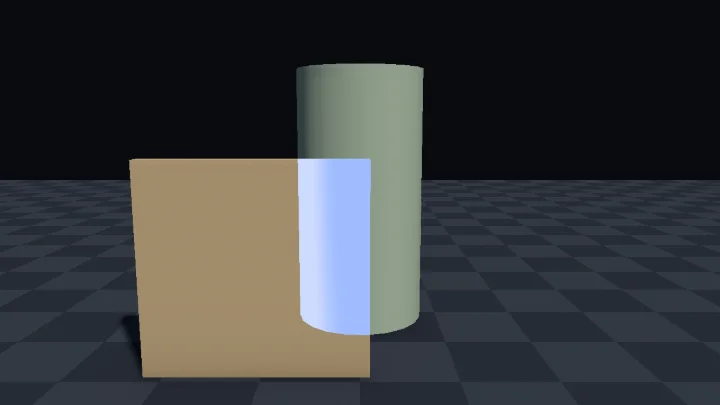
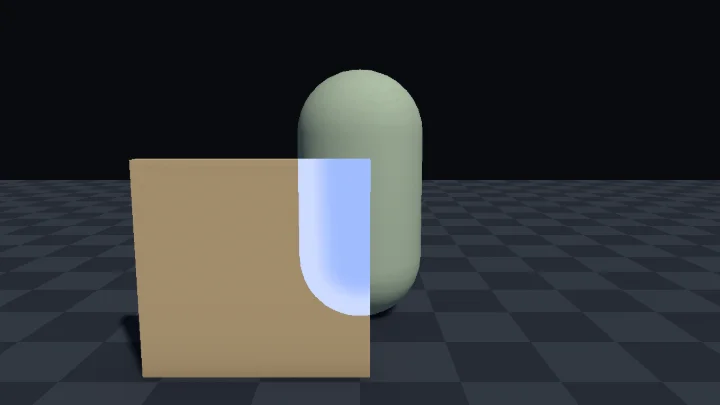
dispatch(xray-occluded-silhouette-fix): 표본 수정: xray-occluded-silhouette 리뷰 반영
Dispatch-Job: xray-occluded-silhouette-fix
Dispatch-Profile: org
Dispatch-Model: claude-opus-5-5

Changed region(s): [[0.3972, 0.1481, 0.6111, 0.3259], [0.3972, 0.6519, 0.5806, 0.8296]]

diff --git a/web/src/specimens/xray-occluded-silhouette/meta.ts b/web/src/specimens/xray-occluded-silhouette/meta.ts
@@ -16,9 +16,8 @@ export const meta: SpecimenMeta = {
   tags: ['ZTest Greater', '멀티 패스', '프레넬', '알파 혼합', '팀 표시'],
   difficulty: 2,
   shaderFile: 'XrayOccludedSilhouette.shader',
-  // 캐릭터 대신 원통을 둔다. 캡슐이면 웹 무대의 벽이 바닥 그림자를 거의 다 가려 tools/check.mjs 의 그림자 검사(효과 끄기의 온전한 그림자)를
-  // 통과하지 못한다 (검사가 벽을 그대로 둔 채 바닥 그림자 넓이를 잰다). 원통은 바닥 원이 벽 오른쪽으로 비어져 나와 잴 수 있다.
-  stage: { kind: 'mesh', mesh: 'cylinder', blend: 'cutout', occluded: true },
+  // 캐릭터 대신 캡슐을 둔다. 아래 반구의 곡선에도 테두리가 생겨 원통보다 몸 모양이 잘 읽힌다.
+  stage: { kind: 'mesh', mesh: 'capsule', blend: 'cutout', occluded: true },
   params: [
     { key: '_SilhouetteColor', label: '실루엣 색', type: 'color', default: '#2f8cff', hint: '벽 뒤에 가려진 부분의 색. 조명을 받지 않는 단색이라 팀이나 대상 종류를 색 하나로 알린다' },
     { key: '_Opacity', label: '실루엣 불투명도', type: 'range', min: 0, max: 1, step: 0.01, default: 0.5, hint: '실루엣 안쪽이 벽을 덮는 정도. 0 이면 테두리만 남고, 1 이면 벽에 구멍이 뚫린 것처럼 꽉 찬다' },
@@ -46,35 +45,36 @@ export const meta: SpecimenMeta = {
     fire: [{ event: 'reveal', every: 3.2 }],
   },
   steps: [
-    { n: 1, label: '실루엣 단색', body: '벽 오른쪽 끝에 가려진 원통의 왼쪽 아래 자리에 실루엣 색 덩어리가 꽉 차게 생겼다. 벽보다 뒤에 있는 픽셀만 `ZTest Greater` 를 통과해 실루엣 패스로 들어오고, 이 단계는 그 자리를 실루엣 색 하나로 불투명하게 칠했다. 벽 밖으로 나온 몸은 본체 패스가 평범한 조명으로 그리며 모든 단계에서 같다. 단색만으로는 벽에 원통 모양 구멍이 뚫린 것처럼 납작하다. 효과 끄기가 여기서 멈춘 흔한 실수다.' },
-    { n: 2, label: '프레넬 테두리', body: '`dot(normalWS, viewWS)` 로 법선이 시선에서 얼마나 비껴 있는지(각의 sin)를 구해 `smoothstep` 으로 자른 값이다. 가려진 부분의 왼쪽 윤곽이 흰색이고, 원통 가운데로 갈수록 부드럽게 어두워져 오른쪽은 검다. 오른쪽의 곧은 경계는 몸의 윤곽이 아니라 벽 끝이라 띠가 없다. `_RimWidth` 를 올리면 흰 부분이 가운데 쪽으로 넓어지고, `_RimStrength` 를 올리면 같은 폭 안이 더 하얗게 찬다.' },
-    { n: 3, label: '섞을 비율', body: '실루엣의 알파다. 오른쪽(가운데)은 `_Opacity` 만큼의 밝은 회색이고 왼쪽 윤곽으로 갈수록 흰색이 된다. 최종 화면은 이 비율로 실루엣 색을 벽 위에 섞으므로 가운데로는 벽 색이 비치고 윤곽은 진하게 남아 둥근 몸통이 읽힌다. 발견 버튼을 누르면 이 값이 잠깐 전체 흰색이 된다.' },
+    { n: 1, label: '실루엣 단색', body: '벽 오른쪽 끝에 가려진 캡슐의 왼쪽 아래 자리에 실루엣 색 덩어리가 꽉 차게 생겼다. 벽보다 뒤에 있는 픽셀만 `ZTest Greater` 를 통과해 실루엣 패스로 들어오고, 이 단계는 그 자리를 실루엣 색 하나로 불투명하게 칠했다. 벽 밖으로 나온 몸은 본체 패스가 평범한 조명으로 그리며 모든 단계에서 같다. 단색만으로는 벽에 캡슐 모양 구멍이 뚫린 것처럼 납작해, 벽 앞인지 뒤인지도 둥근 몸인지 판인지도 읽히지 않는다.' },
+    { n: 2, label: '프레넬 테두리', body: '`dot(normalWS, viewWS)` 로 법선이 시선에서 얼마나 비껴 있는지(각의 sin)를 구해 `smoothstep` 으로 자른 값이다. 가려진 부분의 왼쪽 윤곽이 흰색이고, 캡슐 가운데로 갈수록 부드럽게 어두워져 오른쪽은 검다. 아래쪽 둥근 끝의 곡선을 따라서도 같은 폭의 흰 띠가 돌아, 몸의 아래 끝이 둥글다는 것이 읽힌다. 위쪽과 오른쪽의 곧은 경계는 몸의 윤곽이 아니라 벽 끝이라 띠가 없다. `_RimWidth` 를 올리면 흰 부분이 가운데 쪽으로 넓어지고, `_RimStrength` 를 올리면 같은 폭 안이 더 하얗게 찬다.' },
+    { n: 3, label: '섞을 비율', body: '실루엣의 알파다. 오른쪽(가운데)은 `_Opacity` 만큼의 밝은 회색이고 왼쪽 윤곽과 아래 곡선으로 갈수록 흰색이 된다. 최종 화면은 이 비율로 실루엣 색을 벽 위에 섞으므로 가운데로는 벽 색이 비치고 윤곽은 진하게 남아 둥근 몸이 읽힌다. 발견 버튼을 누르면 이 값이 잠깐 전체 흰색이 된다.' },
   ],
-  offNote: '프레넬 없이 불투명 단색으로 덮은 흔한 실수. 가려진 부분이 팀 색으로 꽉 차서 벽에 원통 모양 구멍이 뚫린 것처럼 보인다. 벽이 비치지 않아 캐릭터가 벽 앞인지 뒤인지 헷갈리고, 테두리가 없어 둥근 몸통인지 납작한 판인지도 읽히지 않는다. 불투명도와 테두리 슬라이더도 듣지 않는다.',
+  offNote: '프레넬을 `1 - dot(normalWS, viewWS)` 로 그대로 쓴 흔한 실수. 둥근 몸에서는 이 값이 윤곽 바로 앞까지 0 에 가까워, 같은 테두리 폭에서도 왼쪽 윤곽과 아래 곡선에 실처럼 가는 선만 남는다. 안쪽은 불투명도만큼 옅게 덮일 뿐이라 벽 색과 섞여 흐릿하고, 작은 화면이나 먼 거리에서는 선이 몇 픽셀로 줄어 몸의 둥근 형태도 위치도 놓치기 쉽다. 테두리 폭을 1 까지 올려도 정상 화면만큼 넓어지지 않는다.',
   mistakes: [
-    { title: '벽 뒤로 가도 실루엣이 생기지 않는다', body: '세 가지를 차례로 본다. (1) 실루엣 패스가 `ZTest Greater` 인지. 기본값(`LEqual`)이면 보이는 부분 위에 덧칠될 뿐이다. (2) 본체와 실루엣 패스가 같은 `LightMode` 태그를 쓰지 않는지. URP 는 같은 태그의 첫 패스만 그리므로 실루엣 패스는 `SRPDefaultUnlit` 으로 둔다. (3) 캐릭터가 벽보다 늦게 그려지는지. 이 셰이더는 `"Queue" = "AlphaTest"` 라 Geometry 큐의 벽 다음에 그려진다. 머티리얼 Inspector 의 Render Queue 를 2000 이하로 낮추면 벽 깊이가 아직 없어 실루엣이 생기지 않는다.' },
-    { title: '유리창이나 반투명 벽 뒤에서는 실루엣이 안 생긴다', body: '실루엣은 깊이 버퍼만 비교한다. 투명 머티리얼은 `ZWrite Off` 라 깊이를 쓰지 않으므로 그 뒤의 캐릭터는 가려진 것으로 판정되지 않는다. 또 투명 큐(3000)는 캐릭터보다 늦게 그려진다. 유리 너머에도 실루엣이 필요하면 유리를 가리는 물체로 치지 않는 것이 맞는지부터 정하고, 필요하면 유리와 같은 모양의 깊이만 쓰는 불투명 물체(ColorMask 0)를 따로 둔다.' },
-    { title: '팔이나 다리가 자기 몸 위에 실루엣으로 겹쳐 보인다', body: '실루엣 패스는 본체 깊이가 쓰이기 전에 그려져야 한다. Unity 는 같은 물체의 `SRPDefaultUnlit` 패스를 `UniversalForwardOnly` 본체보다 먼저 그려서 평소에는 괜찮다. SSAO 같은 기능 때문에 깊이 프리패스가 먼저 돌거나 Depth Priming 이 켜지면 본체 깊이가 미리 쓰여, 몸 뒤쪽에 있는 팔 같은 부분이 "가려졌다" 고 판정된다. Window > Analysis > Frame Debugger 에서 실루엣 그리기보다 DepthPrepass 가 먼저 있는지 본다. 그렇다면 Universal Renderer Data 의 Depth Priming Mode 를 Disabled 로 두거나, Render Objects 방식으로 바꿔 두 번째 기능으로 자기 겹침을 막는다.' },
-    { title: '실루엣이 납작한 단색 덩어리라 무엇인지 모르겠다', body: '실루엣은 조명을 받지 않으므로 단색으로만 칠하면 입체감이 없다. 이 표본은 `dot(normalWS, viewWS)` 로 윤곽일수록 알파를 1 에 가깝게 올린다. `1 - dot` 을 그대로 쓰면 둥근 몸에서 윤곽 바로 앞까지 거의 0 이라 테두리가 실처럼 가늘므로, 각의 sin(`sqrt(1 - d * d)`)을 쓰면 가운데에서 윤곽까지 고르게 커진다. 테두리 세기를 0 으로 내리면 이 실수를 볼 수 있다. 법선과 시선은 모두 월드 공간에서 정규화한 값을 쓴다.' },
-    { title: '작은 소품이나 풀 뒤에서도 실루엣이 깜빡인다', body: '`ZTest Greater` 는 앞에 있는 것이 벽인지 풀잎인지 가리지 않는다. 캐릭터가 덤불 사이를 지나면 잎 모양대로 실루엣이 켜졌다 꺼진다. 큰 벽만 가림막으로 치려면 머티리얼 대신 Render Objects 방식으로 바꾸고, 벽을 따로 레이어로 나눠 그 레이어의 깊이만 비교하게 구성한다.' },
+    { title: '벽 뒤로 가도 실루엣이 생기지 않는다', body: '네 가지를 차례로 본다. (1) Universal Renderer Data 의 Rendering > Depth Priming Mode 가 켜져 있는지. 켜져 있으면 불투명 그리기 전체가 `ZTest Equal` 로 덮어써져 실루엣 패스의 `ZTest Greater` 가 무시되고 실루엣이 통째로 사라진다. Auto 는 데스크톱에서 MSAA 가 꺼져 있으면 켜질 수 있으니 Disabled 로 둔다. SSAO 는 끌 필요가 없다. 프라이밍이 꺼진 깊이 프리패스는 깊이 텍스처에만 그려 상관없다. (2) 실루엣 패스가 `ZTest Greater` 인지. 기본값(`LEqual`)이면 보이는 부분 위에 덧칠될 뿐이다. (3) 본체와 실루엣 패스가 같은 `LightMode` 태그를 쓰지 않는지. URP 는 같은 태그의 첫 패스만 그리므로 실루엣 패스는 `SRPDefaultUnlit` 으로 둔다. (4) 캐릭터가 벽보다 늦게 그려지는지. 이 셰이더는 `"Queue" = "AlphaTest"`(2450)라 Geometry 큐(2000)의 벽 다음에 그려진다. 머티리얼 Inspector 의 Render Queue 를 벽보다 작은 값으로 낮추거나 벽의 큐를 캐릭터보다 크게 올리면, 실루엣을 그릴 때 벽 깊이가 아직 없어 실루엣이 생기지 않는다.' },
+    { title: '유리창이나 반투명 벽 뒤에서는 실루엣이 안 생긴다', body: '실루엣은 깊이 버퍼만 비교한다. 투명 머티리얼은 `ZWrite Off` 라 깊이를 쓰지 않으므로 그 뒤의 캐릭터는 가려진 것으로 판정되지 않는다. 또 투명 큐(3000)는 캐릭터보다 늦게 그려진다. 보통은 유리를 가림막으로 치지 않는 것이 맞다. 유리 자리에 깊이만 쓰는 불투명 물체(ColorMask 0)를 두는 방법은 권하지 않는다. 그 물체가 깊이를 먼저 써 버려 뒤에 그려질 스카이박스와 캐릭터 본체, 다른 불투명 물체가 유리 자리에서 지워져 유리 너머가 검거나 비어 보인다.' },
+    { title: '무기나 다른 부위 위에 몸의 실루엣 색이 칠해진다', body: 'Forward 와 Forward+ 에서 같은 물체의 `SRPDefaultUnlit` 실루엣 패스는 `UniversalForwardOnly` 본체보다 먼저 그려져, 렌더러 하나짜리 캐릭터는 자기 몸에 겹치지 않는다. 겹친다면 원인은 둘이다. (1) 캐릭터가 렌더러나 서브메시 여러 개로 나뉘어 있다. 부위마다 실루엣과 본체가 따로 그려지므로 먼저 그린 부위 위에 뒤 부위의 실루엣이 덮인다. 다른 큐의 무기나 모자(Lit, 2000)도 캐릭터보다 먼저 그려져, 몸 앞에 든 총 위에 몸의 실루엣 색이 칠해진다. 모든 머티리얼을 이 셰이더로 바꿔도 풀리지 않는다. (2) Deferred 렌더 경로에서는 본체가 실루엣보다 먼저 그려질 수 있다 (URP 소스로 추론, 확인하지 않았다). Window > Analysis > Frame Debugger 에서 부위별 그리는 순서를 본다. 이런 캐릭터는 Universal Renderer 의 Render Objects 방식으로 바꾼다. 캐릭터 레이어(무기 포함)를 Opaque Layer Mask 에서 빼고, 첫 Render Objects 로 레이어 전체의 실루엣을 먼저(Depth Test Greater, Write Depth 끔), 둘째로 본체를 나중에 그린다. 본체 머티리얼은 평범한 Lit 으로 둔다.' },
+    { title: '실루엣이 납작하거나 테두리가 실처럼 가늘다', body: '실루엣은 조명을 받지 않으므로 단색으로만 칠하면 입체감이 없다. 이 표본은 `dot(normalWS, viewWS)` 로 윤곽일수록 알파를 1 에 가깝게 올린다. `1 - dot` 을 그대로 쓰면 둥근 몸에서 윤곽 바로 앞까지 거의 0 이라 테두리가 실처럼 가늘다. 각의 sin(`sqrt(1 - d * d)`)을 쓰면 가운데에서 윤곽까지 고르게 커진다. 효과 끄기가 `1 - dot` 의 모습이고, 테두리 세기를 0 으로 내리면 테두리 없이 납작한 모습을 볼 수 있다. 법선과 시선은 모두 월드 공간에서 정규화한 값을 쓴다.' },
+    { title: '작은 소품이나 풀 뒤에서도 실루엣이 깜빡인다', body: '`ZTest Greater` 는 앞에 있는 것이 벽인지 풀잎인지 가리지 않는다. 캐릭터가 덤불 사이를 지나면 잎 모양대로 실루엣이 켜졌다 꺼진다. 깊이 버퍼는 하나라 레이어를 골라 비교할 수는 없고, 그리는 순서로 고른다. 벽 → 실루엣 → 덤불 순서로 그리면 실루엣을 그리는 순간 깊이 버퍼에는 아직 벽만 있어 벽 뒤에서만 실루엣이 생기고, 덤불은 그 뒤에 그려져 평범하게 앞을 덮는다. 머티리얼 방식이면 덤불 머티리얼의 Render Queue 를 캐릭터(2450)보다 크고 불투명 범위(2500) 안인 값(예: 2460)으로 올린다. Render Objects 방식이면 덤불을 따로 레이어로 나눠 Opaque Layer Mask 에서 빼고 실루엣 다음 Render Objects 로 그린다.' },
   ],
   unity: {
     setup: [
       '`XrayOccludedSilhouette.shader`, `core.hlsl`, `XraySilhouetteController.cs` 를 `Assets/Shaders/xray-occluded-silhouette/` 에 둔다.',
       'Project 창에서 셰이더를 우클릭해 Create > Material 로 머티리얼을 만든다.',
-      '머티리얼을 캐릭터의 MeshRenderer(또는 SkinnedMeshRenderer)에 넣는다. 가림막이 될 벽은 URP Lit 처럼 깊이를 쓰는 불투명 머티리얼이어야 한다.',
+      '머티리얼을 캐릭터의 MeshRenderer(또는 SkinnedMeshRenderer)에 넣는다. 가림막이 될 벽은 URP Lit 처럼 깊이를 쓰는 불투명 머티리얼이어야 한다. 캐릭터가 렌더러나 서브메시 여러 개로 나뉘었거나 무기, 모자를 따로 들고 있으면 이 머티리얼 대신 Render Objects 방식을 쓴다 (주의할 점 참고).',
       '팀 색과 발견 연출이 필요하면 같은 오브젝트에 `XraySilhouetteController` 를 붙이고 Team 을 고른다. 적을 발견한 순간 `PlayReveal()` 을, 팀이 바뀌면 `SetAlly()` 나 `SetEnemy()` 를 호출한다. 인자가 없어 UnityEvent 에 바로 연결할 수 있다.',
-      '실루엣이 사라지거나 자기 몸에 겹치면 사용 중인 Universal Renderer Data 의 Rendering > Depth Priming Mode 를 Disabled 로 둔다.',
+      '사용 중인 Universal Renderer Data 의 Rendering > Depth Priming Mode 를 Disabled 로 둔다. 켜져 있으면(Auto 는 데스크톱에서 켜질 수 있다) 실루엣이 통째로 사라진다. SSAO 같은 다른 기능은 끄지 않아도 된다.',
     ],
     verify: '캐릭터를 벽 뒤로 옮기면 가려진 부분만 팀 색 실루엣으로 보이고 윤곽이 진하다. 실루엣 불투명도를 0 으로 내리면 테두리만 남고, 벽 밖으로 나온 몸은 평범한 조명 그대로다.',
     pitfalls: [
       '이 셰이더는 3D 프로젝트(Universal Renderer)용이다. 2D Renderer 는 `Universal2D` 와 `SRPDefaultUnlit` 태그만 그리므로 본체 패스(`UniversalForwardOnly`)는 빠지고 실루엣 패스만 남는다. 몸은 그려지지 않고, 깊이에 따라 실루엣 조각만 보이거나 아무것도 안 보인다.',
-      'Depth Priming 이나 깊이 프리패스(SSAO 등이 켜면 돈다)가 실루엣보다 먼저 본체 깊이를 쓰면 실루엣이 사라지거나 자기 몸 위에 겹친다. 실루엣 패스가 본체보다 먼저 그려진다는 전제로 만든 셰이더다 (껍데기 외곽선 패스와 같은 이유). 실루엣은 깊이 버퍼만 비교하므로 URP Asset 의 Depth Texture 설정은 필요 없다.',
+      'Universal Renderer Data 의 Depth Priming 이 켜지면 불투명 그리기 전체가 `ZTest Equal, ZWrite Off` 로 덮어써져 실루엣 패스의 `ZTest Greater` 가 무시되고 실루엣이 통째로 사라진다 (몸에 겹치지는 않는다). Auto 모드는 데스크톱에서 MSAA 가 꺼져 있으면 프리패스가 필요 없어도 켜질 수 있으므로 Disabled 로 둔다. 프라이밍이 꺼진 깊이 프리패스(SSAO 등이 켠다)는 깊이 텍스처에만 그려 상관없으니 SSAO 를 끌 필요는 없다. 실루엣은 깊이 버퍼만 비교하므로 URP Asset 의 Depth Texture 설정도 필요 없다 (URP 17.3 소스 기준).',
       '투명한 벽(`ZWrite Off`)은 깊이를 쓰지 않아 그 뒤에서는 실루엣이 생기지 않는다. 유리, 연기, 반투명 파티클은 가림막으로 치지 않는다.',
       '실루엣 패스는 `SRPDefaultUnlit` 태그를 쓴다. URP 는 같은 태그의 패스가 둘이면 첫 패스만 그리므로, 이 셰이더에 껍데기 외곽선처럼 `SRPDefaultUnlit` 패스를 하나 더 넣으면 둘 중 하나가 사라진다. 외곽선까지 필요하면 외곽선을 다른 머티리얼이나 Render Objects 로 분리한다.',
-      '실루엣은 그림자를 드리우지 않고 깊이, 노멀 텍스처에도 들어가지 않는다. 캐릭터 머티리얼이 여러 개(서브메시)면 모든 머티리얼을 이 셰이더로 바꿔야 몸 전체가 실루엣이 된다.',
+      '렌더러 하나, 머티리얼 하나짜리 캐릭터를 전제로 한 셰이더다. 렌더러나 서브메시가 여러 개면 부위마다 실루엣과 본체가 따로 그려져 먼저 그린 부위 위에 뒤 부위의 실루엣이 덮이고, 다른 큐의 무기나 모자(Lit, 2000)도 같아 몸 앞에 든 총 위에 실루엣 색이 칠해진다. 모든 머티리얼을 이 셰이더로 바꿔도 풀리지 않으므로 Render Objects 방식(캐릭터 레이어 전체의 실루엣을 먼저, 본체를 나중에)을 쓴다. Deferred 렌더 경로의 Forward 전용 목록은 `UniversalForwardOnly, SRPDefaultUnlit` 순이라 본체가 먼저 그려질 수 있고, 그러면 렌더러 하나짜리라도 팔 위에 뒤쪽 몸통의 실루엣이 칠해진다 (소스로 추론, Unity 에서 확인하지 않았다). 실루엣은 그림자를 드리우지 않고 깊이, 노멀 텍스처에도 들어가지 않는다.',
+      '안개를 처리하지 않아 Fog 를 켠 넓은 맵에서 먼 캐릭터 본체가 안개에 묻히지 않는다. 본체는 Forward 패스에 `#pragma multi_compile_fog` 를 넣고 정점에서 `ComputeFogFactor(positionCS.z)` 를 넘긴 뒤 마지막 색에 `MixFog(color, fogFactor)` 를 건다. 실루엣 패스는 일부러 안개를 무시해도 된다. 벽 너머 위치를 알리는 표시라 멀어도 흐려지지 않는 편이 낫다. 또 본체 조명은 광원의 `distanceAttenuation` 을 곱하지 않아(래퍼 주석 참고) 광원의 Culling Mask 와 Rendering Layers 가 무시된다.',
     ],
-    graph: 'Shader Graph 는 그래프 하나에 `ZTest Greater` 패스를 더 넣을 수 없다. 본체는 기존 Lit 그래프나 머티리얼을 그대로 두고, 실루엣은 Universal Renderer 의 Render Objects 기능에 맡긴다. Create > Shader Graph > URP > Unlit Shader Graph 로 실루엣용 그래프를 만들어 Graph Settings 에서 Surface Type 을 Transparent 로 둔다. Fresnel Effect 노드(Power 를 1 근처로 낮추면 이 표본의 넓은 테두리에 가깝다)의 결과를 Lerp 의 T 로 넣어 불투명도와 1 사이를 고르면 이 표본의 `lerp(_Opacity, 1.0, edge)` 와 같은 모양의 알파가 된다. 그 결과를 Alpha 에, 실루엣 색을 Base Color 에 연결한다. 이 그래프로 만든 머티리얼을 Render Objects 의 Override Material 에 넣고 Depth Test 를 Greater, Write Depth 를 끈다. 이 계산은 노드로 충분해 Custom Function 이 필요 없다.',
+    graph: 'Shader Graph 는 그래프 하나에 `ZTest Greater` 패스를 더 넣을 수 없다. 본체는 기존 Lit 그래프나 머티리얼을 그대로 두고, 실루엣은 Universal Renderer 의 Render Objects 기능에 맡긴다. Create > Shader Graph > URP > Unlit Shader Graph 로 실루엣용 그래프를 만들어 Graph Settings 에서 Surface Type 을 Transparent 로 둔다. Fresnel Effect 노드의 Power 를 0.5 쯤으로 두면 이 표본의 각의 sin 과 비슷하게 가운데에서 윤곽까지 고르게 커진다 (Power 가 1 이상이면 `1 - dot` 과 같거나 더 가팔라 테두리가 실처럼 가늘다). 그 결과를 Smoothstep(Edge1 = 1 - 테두리 폭, Edge2 = 1)에 넣고 테두리 세기를 곱해 Saturate 한 뒤 Lerp 의 T 로 넣어 불투명도와 1 사이를 고르면 이 표본의 `lerp(_Opacity, 1.0, edge)` 와 같은 모양의 알파가 된다. 그 결과를 Alpha 에, 실루엣 색을 Base Color 에 연결한다. 이 그래프로 만든 머티리얼을 Render Objects 의 Override Material 에 넣고 Depth Test 를 Greater, Write Depth 를 끈다. 식을 정확히 같게 하려면 Fresnel Effect 와 Smoothstep 대신 Custom Function 노드를 String 모드로 두고 Name 을 `XrayRim` 으로, 입력에 Normal Vector(World)와 View Direction(World) 노드와 폭을 연결해 `void XrayRim_float(float3 NormalWS, float3 ViewWS, float RimWidth, out float Edge) { float f = saturate(dot(normalize(NormalWS), normalize(ViewWS))); Edge = smoothstep(1.0 - RimWidth, 1.0, sqrt(saturate(1.0 - f * f))); }` 를 넣는다. `core.hlsl` 을 File 모드로 통째로 지정하면 `SgInput` 과 머티리얼 값 선언이 없어 컴파일되지 않는다.',
   },
   prompt: {
     goal: '캐릭터가 벽 뒤에 가려지면 가려진 부분만 팀 색 실루엣으로 덧그리는 셰이더를 넣는다. 윤곽을 프레넬로 진하게 해 형태가 읽히고, 벽 밖으로 나온 몸은 평범한 조명 그대로이며, 적을 발견한 순간 C# 로 실루엣을 잠깐 밝힌다.',
@@ -84,6 +84,7 @@ export const meta: SpecimenMeta = {
       '멀리 있을수록 실루엣이 옅어지거나, 반대로 멀어도 화면에서 같은 굵기의 테두리로 보이게 하고 싶다.',
       '실루엣에 위로 흐르는 스캔라인 무늬를 넣어 투시 장비로 보는 느낌을 내고 싶다.',
       '체력이 낮은 아군만 실루엣 색을 바꿔 벽 너머에서도 위급한 동료를 찾게 하고 싶다.',
+      'Fog 를 켠 넓은 맵에서 본체는 안개에 묻히고, 실루엣은 안개와 상관없이 또렷하게 남게 하고 싶다.',
     ],
   },
   captures: [
